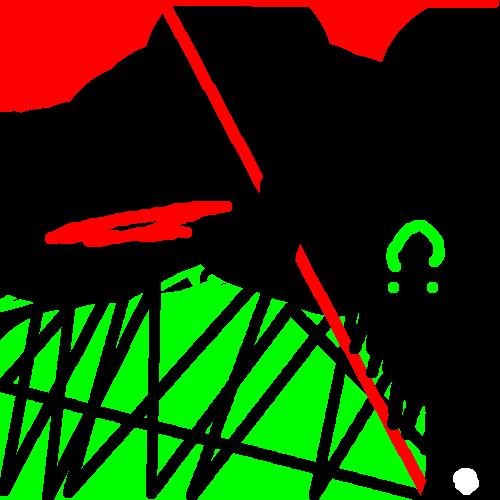
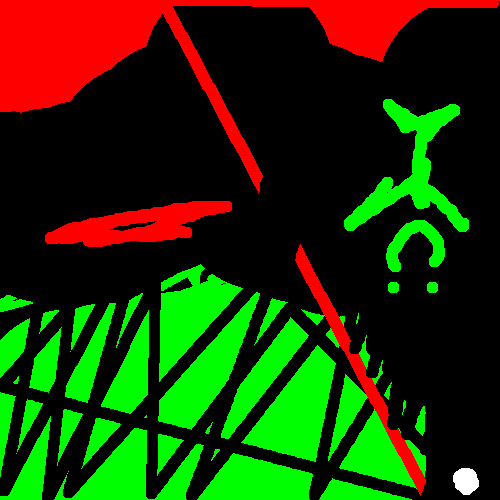
Lots of changes! :O

Changed region(s): [[0.69, 0.18, 0.96, 0.48]]

diff --git a/bossbattle.py b/bossbattle.py
@@ -1,6 +1,171 @@
 import core
 import utils
+from utils import makeGfxBox
+from utils import MakeCompleteObject
+import game_object as GameObject
+import gfw
+import Image
+import math
+import random
+import physics
+fontImage = Image.open('graphics_framework/font3.png')
+class Player(core.GameObject):
+	def __init__(self,gameCore):
+		self.gameCore = gameCore
+		self.Body = [makeGfxBox(10,10,[1,1,1]),[0,0],None]
+		self.LArm = [makeGfxBox(5,5,[1,1,1]),[-10,0],[0]]
+		self.RArm = [makeGfxBox(5,5,[1,1,1]),[10,0],[0]]
+		self.LArmBegin = [0,0]
+		self.RArmBegin = [0,0]
+		self.LFoot =[makeGfxBox(5,5,[1,1,1]),[0,-10],[0]]
+		self.LFootBegin = [0,-10]
+		self.RFoot = [makeGfxBox(5,5,[1,1,1]),[0,-10],[0]]
+		self.RFootBegin = [0,-10]
+		self.Head = [makeGfxBox(7,7,[1,1,1]),[0,10],[0]]
+		self.HeadBegin = [0,10]
+		self.LEye = [makeGfxBox(2.0,3.0,[0,0,0]),[2,0],[5]]
+		self.REye = [makeGfxBox(2.0,3.0,[0,0,0]),[-2,0],[5]]
+		
+		obj = MakeCompleteObject([-5.0,-28, -5.0,10.0, 5.0,10.0,5.0,-28.0])
+		obj.Body.setMass(1)
+		tex = gfw.Texture(fontImage.tostring(),fontImage.size[0],fontImage.size[1],4,1)
+		self.Text = gfw.Text(tex,0,1,0,1,10,10,32,15)
+		
+		self.textrendering = core.GameObject(self.Text)
+		self.textrendering.SetPos(-180,150)
+		self.textrendering.IgnoresCamera = False
+		self.TextBox =[self.Text,[-200,-200],[0]]
+		self.Text.SetText("lolololol")
+		super(Player,self).__init__([self.Body,self.LArm,self.RArm,self.LFoot,self.RFoot,self.Head,self.LEye,self.REye,self.TextBox],obj.Body,0,0)
+		self.t = 0
+		self.Closest = None
+		self.LoadNextLevel = False
+		self.KeyEventHandler = lambda x,y,z: self.keyEventHandler(y,z)
+		self.CollisionResponse = lambda x,y,z: self.Col(y)
+		self.walkLeft = 0
+		self.walkRight = 0
+		self.AllowJump = False
+		self.Inventory = []
+	def Col(self,other):
+		self.AllowJump = True
+	
+	def keyEventHandler(self,a,n):
+		if a == 286:
+			self.walkLeft = n
+		if a == 285:
+			self.walkRight = n
 
+		print a,n
+		if n == 1:
+			#if a == 284:
+				#self.Body.AddForce(0,-1)
+			if a == gfw.KEY_SPACE:
+				if self.AllowJump is True:
+					self.gameCore.PlaySound(random.random()*10)
+					self.Body.AddForce(0,10)
+			
+			if a == gfw.KEY_LCTRL:
+				self.LoadNextLevel = True
+				if self.Closest is not None:
+					self.Closest.Activate(self)
+		if n == 0:
+			if a == gfw.KEY_LCTRL:
+				self.LoadNextLevel = False
+	def Update(self,dt):
+		self.gameCore.Camera = [self.x,self.y]
+		#print self.Body.GetMass()
+		self.t += dt
+		self.Body.AddForce(float(self.walkLeft-self.walkRight)/5,0)
+		self.Head[1][0] = self.HeadBegin[0] + math.sin(self.t)
+		self.LFoot[1][0] = self.LFootBegin[0]+ math.sin(self.x/20)*10
+		self.RFoot[1][0] = self.RFootBegin[0]+ math.sin(self.x/20 + math.pi)*10
+		self.LFoot[1][1] = self.LFootBegin[1]+ math.cos(self.x/20)*10
+		self.RFoot[1][1] = self.RFootBegin[1]+ math.cos(self.x/20 + math.pi)*10
+		
+		self.LArm[1][0] = self.LArmBegin[0]+ math.sin(self.x/20)*10
+		self.RArm[1][0] = self.RArmBegin[0]+ math.sin(self.x/20 + math.pi)*10
+		self.Head[1][0] = -self.Body.GetVelocity().GetNorm2()/10
+		self.Body.setInertia(0)
+		self.AllowJump = False
+		
+		self.Text.SetText("")
+
+
+class MissileBox(core.GameObject):
+	def __init__(self,x,y,target):
+		self.target = target
+		box = utils.MakeCompleteObject([-10,-10,10,-10,10,10,-10,10],[1,0,0],[])
+		box.Body.setMass(1)
+		super(MissileBox,self).__init__(box.Visual,box.Body,x,y)
+		targetVector = physics.Vec2(self.target.x-self.x,self.target.y-self.y)
+		targetVector.Print()
+		targetVector = targetVector/ targetVector.GetNorm2()
+		targetVector.Print()
+		targetVector = targetVector * 20
+		self.Body.AddForce(targetVector.x,targetVector.y)
+	def Update(self,dt):
+		pass
+class Boss(core.GameObject):
+	def __init__(self,gameCore,player):
+		self.GC = gameCore
+		self.player = player
+		hand = utils.MakePolygon([0,0, 20,-20, 30,0, 40,-20,60,0],[0,1,2,2,3,4],[],[])
+		hand.SetDrawType(4)
+		body = utils.MakePolygon([-100,0,0,-200,100,0],[],[0,0,1,0,0,1,0,0,1],[])
+		body.SetDrawType(4)
+		head = utils.MakePolygon([-20,-60,0,0,20,-60],[],[0,0,1,0,0,1,0,0,1],[])
+		head.SetDrawType(4)
+		eye = utils.MakePolygon([-5,0,0,-5,5,0],[],[1,0,0,1,0,0,1,0,0],[])
+		eye.SetDrawType(4)
+		self.lhand = [hand,[-100,0],[0]]
+		self.body = [body,[0,0],None]
+		self.head = [head,[0,70],[0]]
+		self.leye = [eye,[-10,-50],[1]]
+		self.reye = [eye,[10,-50],[1]]
+		self.vis = [self.body,self.head,self.leye,self.reye,self.lhand,[hand,[100,0],[0]]]
+		super(Boss,self).__init__(self.vis,0,0,0)
+		self.t = 0
+		self.z = 5
+		self.attack = None
+		self.doAttack = True
+		self.LastSpawn = 0
+	def Update(self,dt):
+		self.t += dt
+		print self.t % 100
+		if self.t-self.LastSpawn > 10:
+			self.LastSpawn=self.t
+			newbox = MissileBox(math.sin(self.t*2)*20 - 200 + self.body[1][0]+self.x, self.body[1][1]+self.y,self.player)
+			newbox.Body.setFriction(0.4)
+			self.GC.LoadObject(newbox)
+		if self.t % 20 < 10 and self.attack is None:
+			self.attack = 0
+			
+			
+		if self.attack is not None:
+			self.attack += dt*20
+			self.lhand[1] = [math.sin(self.t*2)*20 - 200,-self.attack]
+			
+			if self.attack > 250:
+				self.lhand[1] = [math.sin(self.t*2)*20 - 200,0]
+				self.attack = None
+		self.body[1] = [math.sin(self.t)*5,math.cos(self.t)*5]
+		
 gameCore = core.Core()
 
+player = Player(gameCore)
+player.SetPos(0,100)
+player.Body.setFriction(0.4)
+platform = utils.MakeCompleteObject([0,0, 1000,0, 1000,-100, 0,-100],[1,1,1, 1,1,1, 1,1,1, 1,1,1])
+platform.Visual.SetDrawType(2)
+platform.SetPos(0,0)
+platform.Body.setFriction(0.4)
+boss = Boss(gameCore,player)
+boss.z = 100
+boss.SetPos(300,300)
+
+gameCore.PlaySound(0)
+gameCore.LoadObject(player)
+gameCore.LoadObject(platform)
+gameCore.LoadObject(boss)
+gameCore.ZSort()
 gameCore.doMainLoop()

diff --git a/graphics_framework/gfw.cpp b/graphics_framework/gfw.cpp
@@ -99,11 +99,12 @@ void Init(int width,int height, bool fullscreen, int FSAASamples){
 	glLoadIdentity();
 	glPointSize(3);
 	glColor4f(1,1,1,1);
-	glClearColor(0,0,0,1);
+	glClearColor(0,0,0,0);
+	glDisable(GL_BLEND);
 	glHint(GL_POLYGON_SMOOTH_HINT,GL_NICEST);
-	glEnable(GL_BLEND);
-	glBlendFunc (GL_SRC_ALPHA, GL_ONE_MINUS_SRC_ALPHA);
-	
+	//glEnable(GL_BLEND);
+	//glBlendFunc (GL_SRC_ALPHA, GL_ONE_MINUS_SRC_ALPHA);
+	glDisable(GL_NORMALIZE);
 	GLenum err = glewInit();
 	if (GLEW_OK != err)
 	{
@@ -153,11 +154,21 @@ Texture::Texture(char* data, int width, int height, int colorChannels, int input
 	UpdateTexture(data,  width,  height,  colorChannels,  inputSize);
 	ref = new int;
 	*ref = 1;
+	
+	this->width = width;
+	this->height = height;
+	this->channels = colorChannels;
+	this->typesize = inputSize;
+	
 }
 
 Texture::Texture(const Texture& copy){
 	gltex = copy.gltex;
 	ref = copy.ref;
+	width = copy.width;
+	height = copy.height;
+	channels = copy.channels;
+	typesize = copy.typesize;
 	*ref +=1;
 }
 
@@ -178,6 +189,12 @@ Texture & Texture::operator=(const Texture & other){
 
 	gltex = other.gltex;
 	ref = other.ref;
+	width = other.width;
+	height = other.height;
+	channels = other.channels;
+	typesize = other.typesize;
+	
+	
 	*ref +=1;
 	return *this;
 }
@@ -214,7 +231,7 @@ void Texture::UpdateTexture(char * data, int width, int height, int colorChannel
 		glTexParameterf( GL_TEXTURE_2D, GL_TEXTURE_WRAP_S, GL_REPEAT );
 		glTexParameterf( GL_TEXTURE_2D, GL_TEXTURE_WRAP_T, GL_REPEAT );
 		
-		glTexImage2D(GL_TEXTURE_2D,0,colorChannels,width,height,0,glCol,intype,data);
+		glTexImage2D(GL_TEXTURE_2D,0,GL_RGBA16F,width,height,0,glCol,intype,data);
 }
 
 unsigned int Texture::GetGLTexture(){
@@ -649,4 +666,37 @@ void FrameBuffer::Bind(){
 }
 void FrameBuffer::UnBind(){
 	glBindFramebuffer(GL_FRAMEBUFFER,0);
+}
+
+Image FrameBuffer::GetBufferImage(){
+	glReadBuffer(GL_FRONT);
+	Image img(NULL,tex.width,tex.height,4,1);
+	glReadPixels(0,0,tex.width,tex.height,GL_RGBA,GL_FLOAT,&(img.dataf[0]));
+	return img;
+}
+
+Image::Image(char * data, int width, int height, int channels, int dataType){
+	 Width = width;
+	 Height = height;
+	 Channels = channels;
+	 DataType = dataType;
+	 dataf = std::vector<float>(width*height*channels);
+}
+float Image::At(int x, int y, int channel){
+	
+}
+Image::~Image(){
+	//delete []this->data;
+}
+
+std::vector<float> Image::AsFloatVector(){
+	return dataf;
+}
+
+float SumFloatVector(std::vector<float> fv,int offset,int step ){
+	float out = 0;
+	for(int i = offset; i < fv.size(); i+= step){
+		out += fv[i];
+	}
+	return out; 
 }

diff --git a/world_generator/fractal_land.py b/world_generator/fractal_land.py
@@ -3,7 +3,7 @@ import random
 import Image
 import numpy.random
 import opencv.highgui as highgui
-
+import time
 
 def saveMap(Map,name):
 	min = Map.min()
@@ -77,7 +77,7 @@ def squareStep(curmap,scaling):
 def MakeMap():
 	Map = numpy.zeros((7,7))
 	#Map[2][2] = 5
-	for i in range(0,4):
+	for i in range(0,6):
 		scaling = 0.5**float(i)
 		Map = squareStep(Map,scaling)
 		Map = diamondStep(Map,scaling)
@@ -115,7 +115,7 @@ def ErosionFilter(Map, iterations):
 	counter = 0
 	#water += 0.5
 	for i in range(0,iterations):
-		
+		t = time.time()
 		counter +=1	
 		hl = padding.copy()
 		hr = padding.copy()
@@ -174,6 +174,7 @@ def ErosionFilter(Map, iterations):
 				counter = 0
 			if k == 'b' and counter > 10:
 				water[:water.shape[0]/8,:water.shape[1]/8] += 1
+		print "fps:",1/(time.time() - t)
 	return totalheight
 
 if __name__ == "__main__":

diff --git a/graphics_framework/gfw.h b/graphics_framework/gfw.h
@@ -13,6 +13,10 @@ class Texture{
 	void UpdateTexture(char * data, int width, int height, int colorChannels, int inputSize);
 	unsigned int gltex;
 	int *ref;
+	int width;
+	int height;
+	int channels;
+	int typesize;
 	
 };
 
@@ -173,15 +177,28 @@ class LightSystem{
 		void SetLight(Light light, int channel);
 };
 
+
+
+class Image{
+	public:
+	Image(char * data, int width, int height, int channels, int dataType);
+	~Image();
+	int Width, Height,Channels,DataType;
+	float At(int x, int y, int channel);
+	std::vector<float> AsFloatVector();
+	std::vector<float> dataf;
+	float * data;
+};
+
 class FrameBuffer{
 	public:
 	FrameBuffer(Texture outputTexture);
 	void Bind();
 	void UnBind();
-	
+	Image GetBufferImage();
 	Texture tex;
 	unsigned int fboId;
 };
 
-
+float SumFloatVector(std::vector<float>,int offset ,int step);
 

diff --git a/main.py b/main.py
@@ -38,7 +38,7 @@ class Player(core.GameObject):
 		self.textrendering.IgnoresCamera = False
 		self.TextBox =[self.Text,[-200,-200],[0]]
 		self.Text.SetText("lolololol")
-		super(Player,self).__init__([self.Body,self.LArm,self.RArm,self.LFoot,self.RFoot,self.Head,self.LEye,self.REye,self.TextBox],obj.Body,(0,0))
+		super(Player,self).__init__([self.Body,self.LArm,self.RArm,self.LFoot,self.RFoot,self.Head,self.LEye,self.REye,self.TextBox],obj.Body,0,0)
 		self.t = 0
 		self.Closest = None
 		self.LoadNextLevel = False
@@ -48,6 +48,7 @@ class Player(core.GameObject):
 		self.walkRight = 0
 		self.AllowJump = False
 		self.Inventory = []
+		self.SetPos(0,0)
 	def Col(self,other):
 		if isinstance(other,Portal):
 			pass

diff --git a/game_object.py b/game_object.py
@@ -30,8 +30,7 @@ class GameObject(object):
 		self.Visual = graphicsObject
 		self.Body = physicsObject
 		self.offset = offset
-		self.x = x
-		self.y = y
+		self.SetPos(x,y)
 		self.a = a
 		self.z = 0
 		self.parralax = 1
@@ -47,6 +46,7 @@ class GameObject(object):
 		self.x = x
 		self.y = y
 		if self.Body is not 0:
+			print self
 			self.Body.SetPosition(physics.Vec2(x,y))
 	def UpdatePos(self):
 		if self.Body is not 0:
